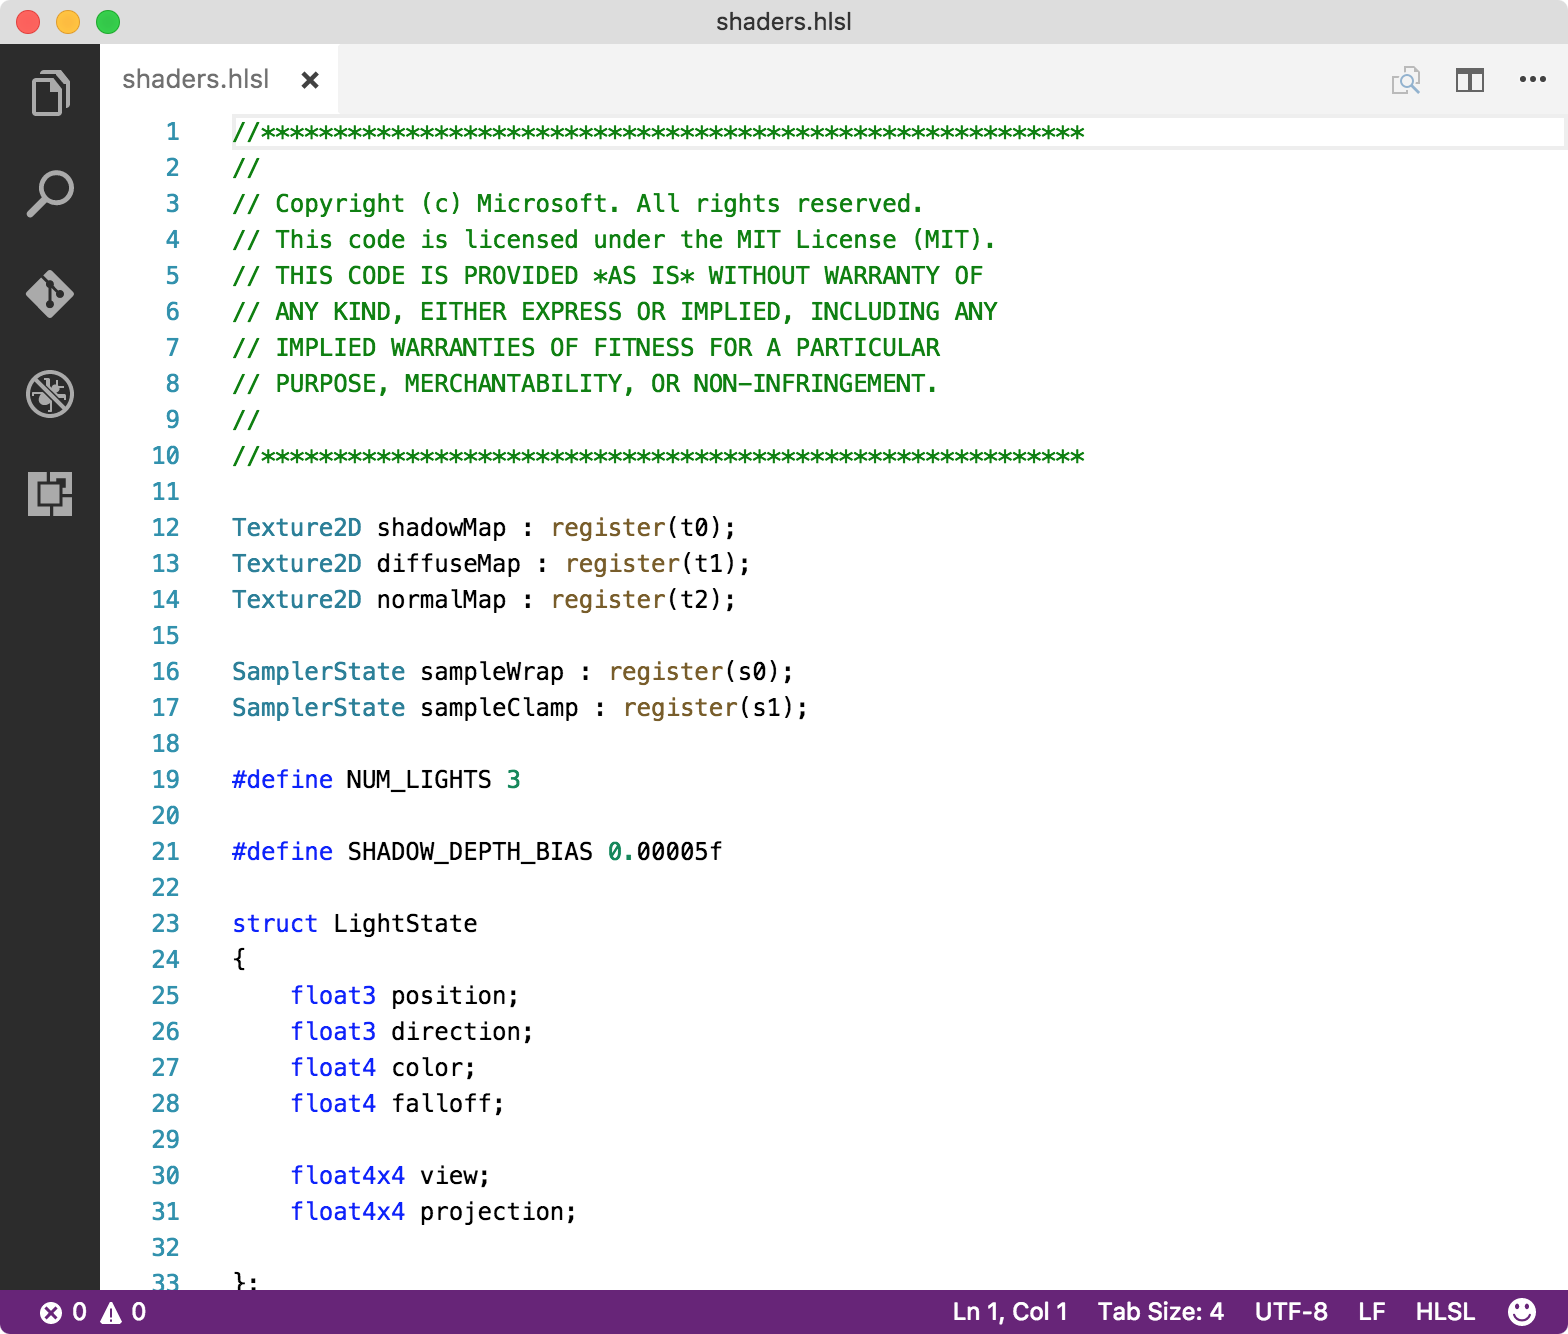
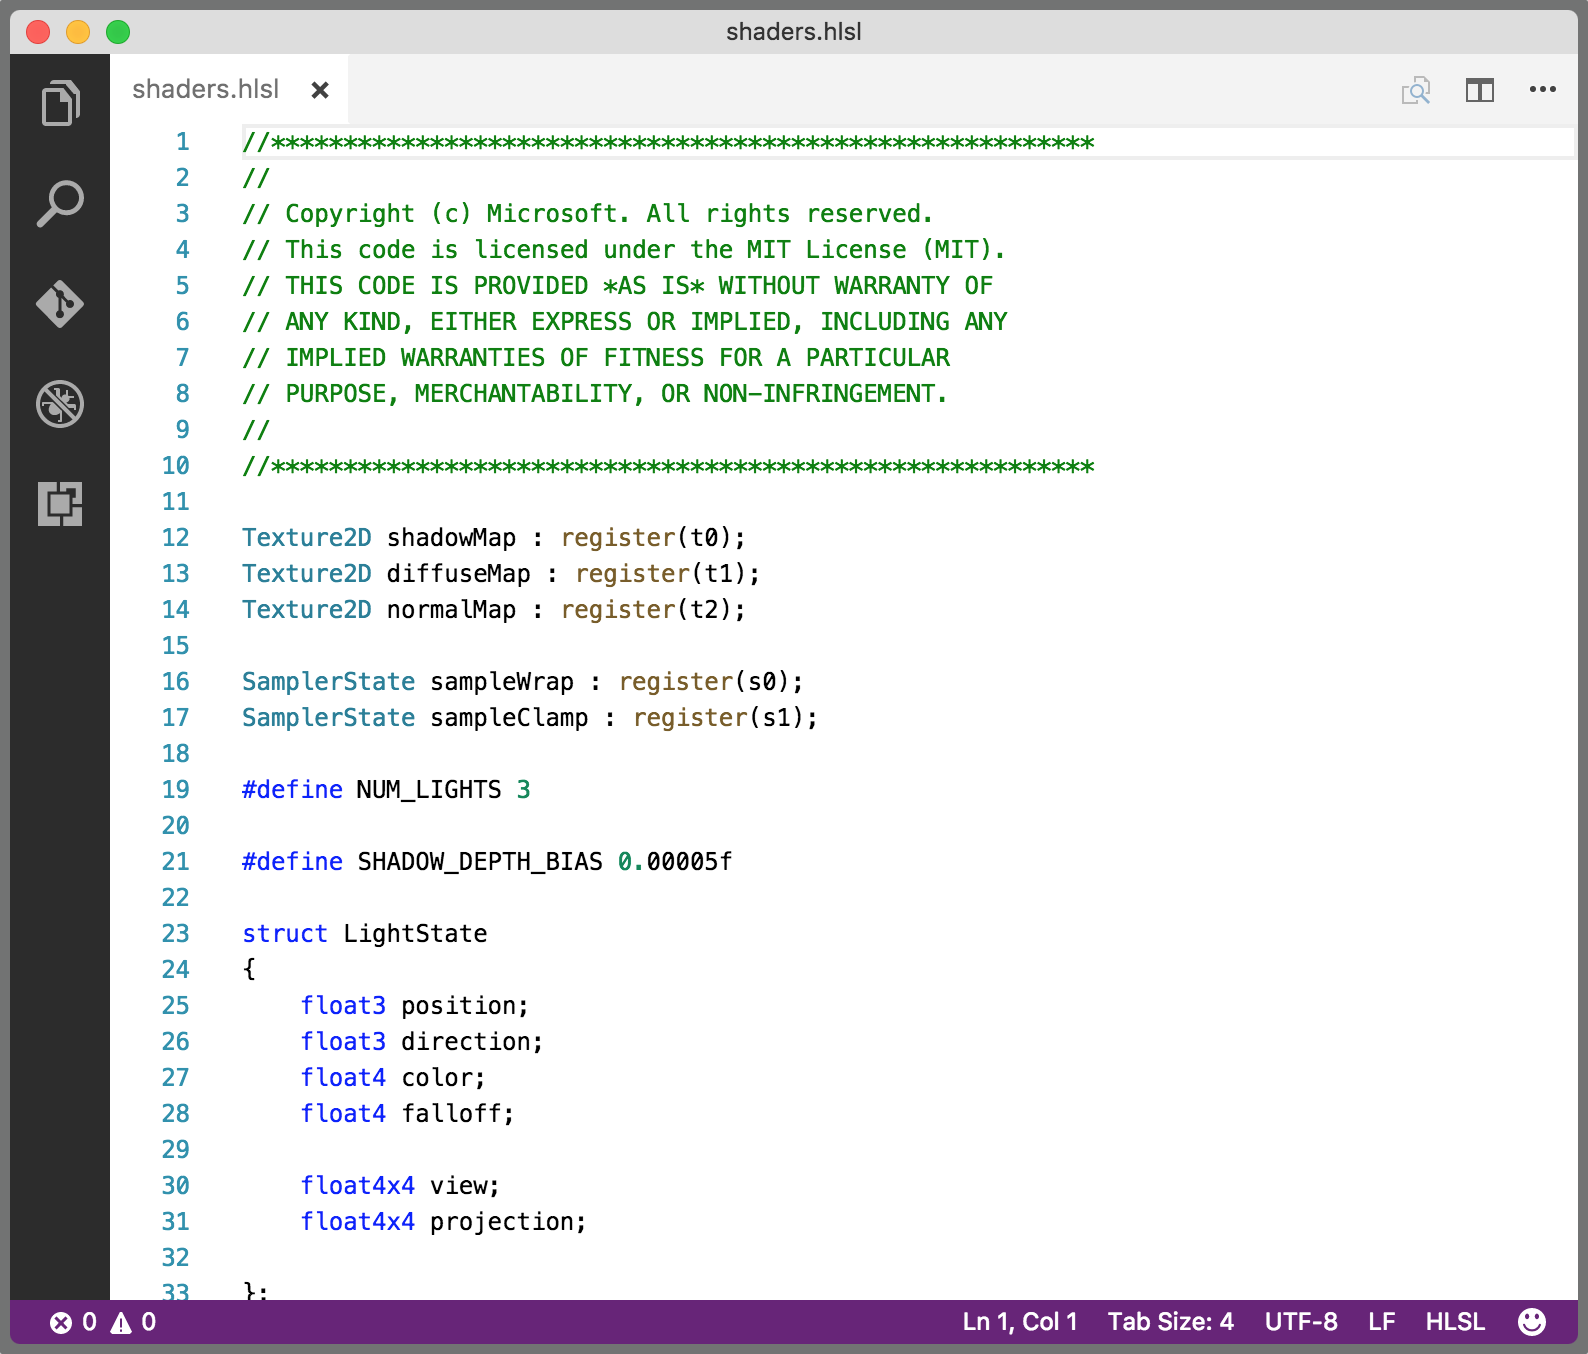
Add border to screenshots

diff --git a/_posts/2017-03-01-syntax-highlighting-for-hlsl-in-vscode.md b/_posts/2017-03-01-syntax-highlighting-for-hlsl-in-vscode.md
@@ -8,7 +8,7 @@ I've started in recent weeks to use [VSCode](https://code.visualstudio.com) much
 It's a great lightweight editor, but it still has enough extensions to make you feel productive at
 a wide range of tasks.
 
-VSCode has had built-in syntax highlighting for ShaderLab `.shader` files for some time now. But while this built-in support was definitely better than not having syntax highlighting at all, it left quite a bit to be desired. And VSCode has never had built-in syntax highlighting for HLSL shaders (despite HLSL being a Microsoft language!). (Yes, I do know about Stef Levesque's excellent [vscode-shader](https://marketplace.visualstudio.com/items?itemName=slevesque.shader) extension, which includes HLSL, GLSL, and Cg syntax highlighting; but I'm specifically talking about what's availabie in VSCode core.)
+VSCode has had built-in syntax highlighting for ShaderLab `.shader` files for some time now. But while this built-in support was definitely better than not having syntax highlighting at all, it left quite a bit to be desired. And VSCode has never had built-in syntax highlighting for HLSL shaders (despite HLSL being a Microsoft language!). (Yes, I do know about Stef Levesque's excellent [vscode-shader](https://marketplace.visualstudio.com/items?itemName=slevesque.shader) extension, which includes HLSL, GLSL, and Cg syntax highlighting; but I'm specifically talking about what's available in VSCode core.)
 
 I wanted to both improve ShaderLab syntax highlighting, and add HLSL syntax highlighting, to VSCode, and I'm [happy to say](https://code.visualstudio.com/updates/v1_10#_thank-you) that the [February 2017 release of VSCode](https://code.visualstudio.com/updates/v1_10) includes my [pull request](https://github.com/Microsoft/vscode/pull/20129) that adds exactly these features.
 
